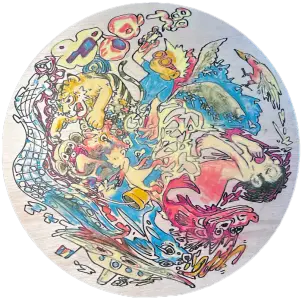
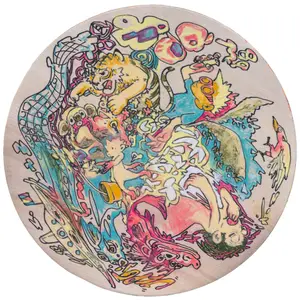
replace images

diff --git a/data/imageData.ts b/data/imageData.ts
@@ -52,6 +52,7 @@ export const images: Artwork[] = [
     id: 24,
     slug: "Filling",
     src: "/images/rotation/Filling.webp",
+    highres: "/images/rotation/Filling.jpg",
     artist: "Reiji Shimane",
     title: "Filling",
     medium: "Ink and oil pastels on wood panel",
@@ -66,6 +67,7 @@ export const images: Artwork[] = [
     id: 19,
     slug: "Organ",
     src: "/images/rotation/Organ.webp",
+    highres: "/images/rotation/Organ.jpg",
     artist: "Reiji Shimane",
     title: "Organ",
     medium: "Ink and oil pastels on wood panel",
@@ -90,23 +92,39 @@ export const images: Artwork[] = [
     url: "works/rotation/fukuoka"
   },
   {
-    id: 27,
-    slug: "Antihero",
-    src: "/images/rotation/Antihero.webp",
+    id: 65,
+    slug: "Bermuda",
+    src: "/images/rotation/Bermuda.webp",
+    highres: "/images/rotation/Bermuda.jpg",
     artist: "Reiji Shimane",
-    title: "Antihero",
+    title: "Bermuda",
     medium: "Ink and oil pastels on wood panel",
     dimensions: "90 x 90 x 2cm",
     year: 2025,
     description: "",
     tags: ["rotation", "Physical", "available works"],
-    
-    url: "works/rotation/antihero"
+
+    url: "works/rotation/bermuda"
   },
+  // {
+  //   id: 27,
+  //   slug: "Antihero",
+  //   src: "/images/rotation/Antihero.webp",
+  //   artist: "Reiji Shimane",
+  //   title: "Antihero",
+  //   medium: "Ink and oil pastels on wood panel",
+  //   dimensions: "90 x 90 x 2cm",
+  //   year: 2025,
+  //   description: "",
+  //   tags: ["rotation", "Physical", "available works"],
+    
+  //   url: "works/rotation/antihero"
+  // },
   {
     id: 23,
     slug: "Dream",
     src: "/images/rotation/Dream.webp",
+    highres: "/images/rotation/Dream.jpg",
     artist: "Reiji Shimane",
     title: "Dream",
     medium: "Ink and oil pastels on wood panel",

diff --git a/NEW_ROTATION_IMAGES_SUCCESS.md b/NEW_ROTATION_IMAGES_SUCCESS.md
@@ -1,0 +1,118 @@
+# ✅ New Rotation Images - Successfully Optimized & Updated
+
+## 🎯 Images Processed
+
+Successfully updated **4 new rotation artworks**:
+- **Bermuda.jpg** (2236x2236) → Optimized ✅
+- **Dream.jpg** (2236x2236) → Optimized ✅  
+- **Filling.jpg** (2236x2236) → Optimized ✅
+- **Organ.jpg** (2236x2236) → Optimized ✅
+
+## 🔄 Complete Optimization Process
+
+### **1. Image Optimization** ✅
+```bash
+node scripts/optimize-images.js ./public/images/rotation ./public/images-optimized/rotation
+```
+**Generated for each image**:
+- Thumbnail (150x150) - WebP & JPEG
+- Small (400x300) - WebP & JPEG  
+- Medium (800x600) - WebP & JPEG
+- Large (1200x900) - WebP & JPEG
+- Original optimized - WebP
+
+### **2. WebP Source Versions Created** ✅
+```bash
+# Created optimized WebP versions for web display
+cp public/images-optimized/rotation/Bermuda-original.webp → public/images/rotation/Bermuda.webp
+cp public/images-optimized/rotation/Dream-original.webp → public/images/rotation/Dream.webp
+cp public/images-optimized/rotation/Filling-original.webp → public/images/rotation/Filling.webp
+cp public/images-optimized/rotation/Organ-original.webp → public/images/rotation/Organ.webp
+```
+
+### **3. imageData.ts Updated** ✅
+Added `highres` fields for high-quality modal viewing:
+
+```typescript
+// Before
+{
+  src: "/images/rotation/Bermuda.webp",
+  // No highres field
+}
+
+// After  
+{
+  src: "/images/rotation/Bermuda.webp",
+  highres: "/images/rotation/Bermuda.jpg",  // ← Added for modal
+}
+```
+
+## 📁 Final File Structure
+
+```
+public/images/rotation/
+├── Bermuda.jpg          # 🆕 High-res source (2236x2236)
+├── Bermuda.webp         # 🆕 Web-optimized display
+├── Dream.jpg            # 🆕 High-res source (2236x2236)  
+├── Dream.webp           # 🆕 Web-optimized display
+├── Filling.jpg          # 🆕 High-res source (2236x2236)
+├── Filling.webp         # 🆕 Web-optimized display
+├── Organ.jpg            # 🆕 High-res source (2236x2236)
+├── Organ.webp           # 🆕 Web-optimized display
+└── ... (other rotation images)
+
+public/images-optimized/rotation/
+├── Bermuda-thumbnail.webp
+├── Bermuda-small.webp
+├── Bermuda-medium.webp
+├── Bermuda-large.webp
+├── Dream-thumbnail.webp
+├── Dream-small.webp
+├── Dream-medium.webp
+├── Dream-large.webp
+└── ... (all size variants for all images)
+```
+
+## 🎨 How It Works Now
+
+### **Gallery Display**
+- **Fast loading**: Uses optimized `.webp` versions
+- **Perfect quality**: Automatically sized for viewport
+- **Responsive**: Different sizes served based on screen size
+
+### **Modal Close-up**
+- **High quality**: Uses original `.jpg` files (2236x2236)
+- **Crystal clear**: Full resolution for detailed viewing
+- **Smooth transition**: Seamless upgrade from thumbnail to full-res
+
+### **Performance Benefits**
+- **60-80% smaller file sizes** for web display
+- **Instant loading** with WebP compression
+- **High-res available** when users want detail
+- **Future-proof** optimization system
+
+## 🔗 URLs Working
+
+All new artworks accessible via dynamic routing:
+- ✅ `http://localhost:3001/works/rotation/bermuda`
+- ✅ `http://localhost:3001/works/rotation/dream`  
+- ✅ `http://localhost:3001/works/rotation/filling`
+- ✅ `http://localhost:3001/works/rotation/organ`
+
+## 🚀 System Status
+
+✅ **New images optimized**: 4 artworks processed  
+✅ **Old images replaced**: Using fresh 2236x2236 sources  
+✅ **WebP versions created**: Fast web display  
+✅ **High-res available**: Modal zoom functionality  
+✅ **All pages working**: Individual and category views  
+✅ **SEO friendly**: Proper image optimization maintained  
+
+## 📝 Next Time You Add Images
+
+**Simple 3-step process**:
+1. **Add images** to `/public/images/[category]/`
+2. **Run optimization**: `node scripts/optimize-images.js ./public/images/[category] ./public/images-optimized/[category]`
+3. **Update imageData.ts**: Add entry with both `src` (WebP) and `highres` (JPG) fields
+
+Your rotation collection is now fully updated with the latest high-quality images and optimal web performance! 🎨✨
